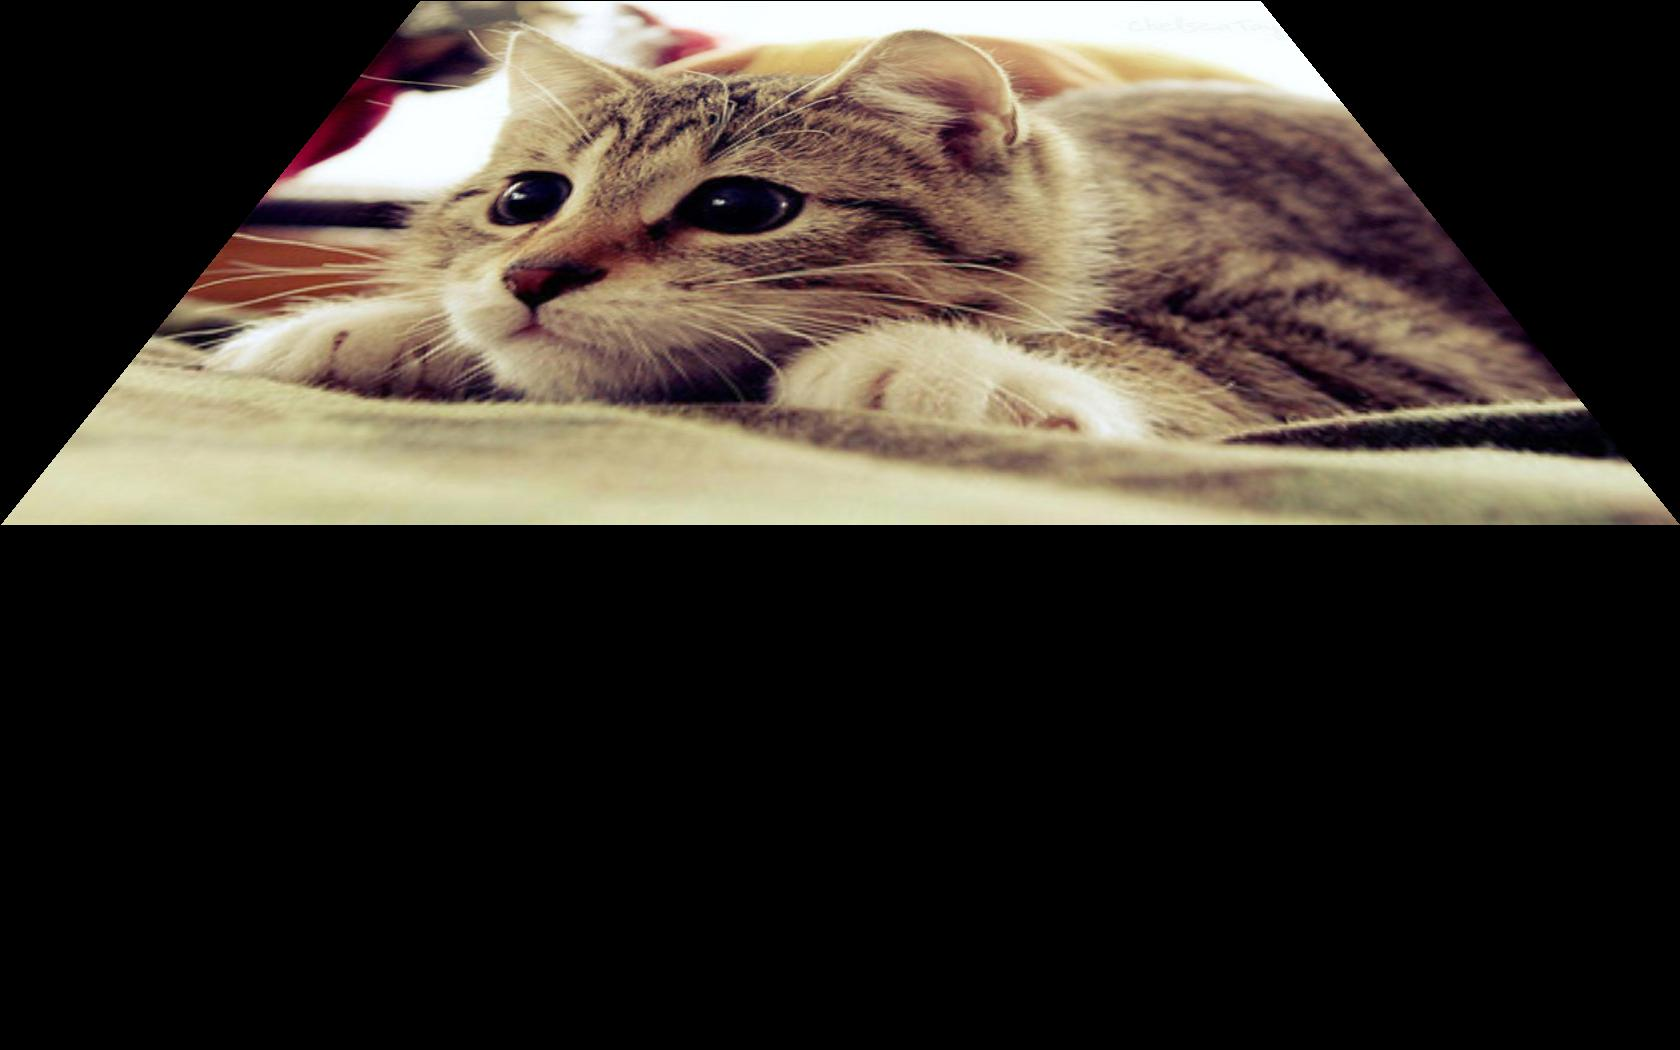
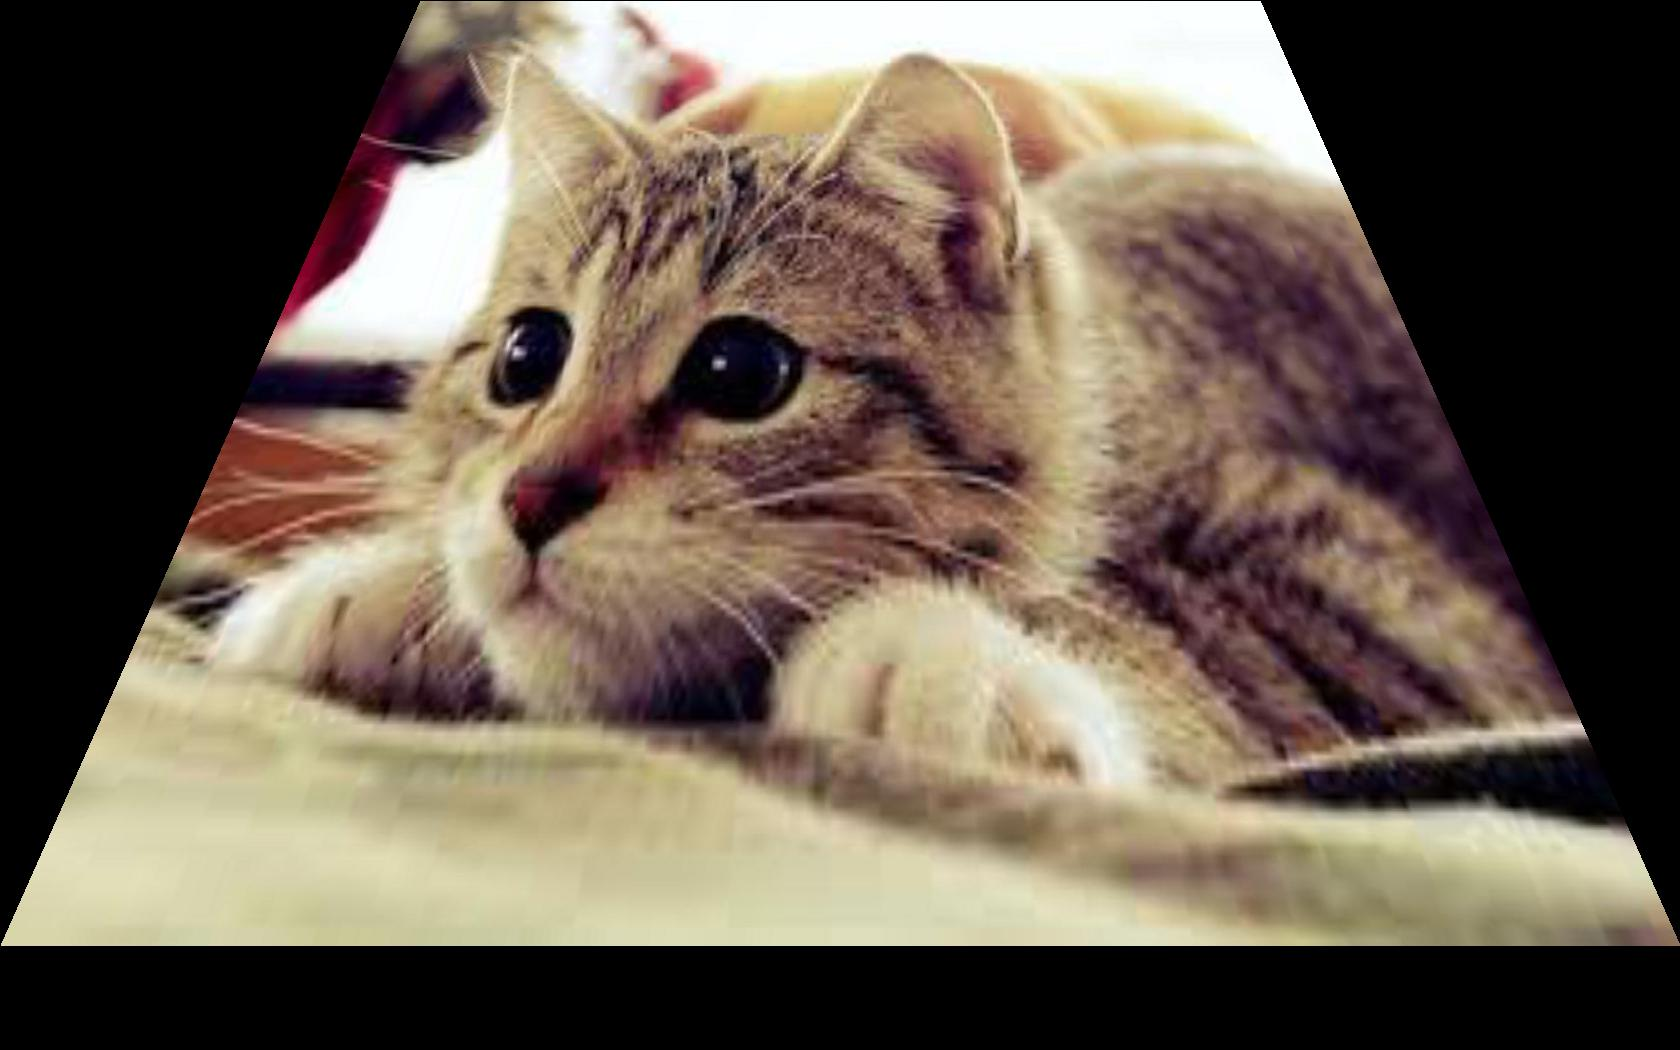
First demo program test

diff --git a/src/time.py b/src/time.py
@@ -1,0 +1,43 @@
+import pygame
+from pygame.locals import*
+from transfunction import transfunction
+from screenres import screenres
+from PIL import Image
+import ImageDraw
+import time
+import sys
+
+x = screenres.width/2
+y = screenres.height/2
+t = time.strftime('%l:%M%p %Z')
+blankimg = Image.open(sys.argv[1])
+draw = ImageDraw.Draw(blankimg)
+draw.text((x,y), t, (255, 255, 255))
+blankimg.save(sys.argv[2])
+
+w = screenres.width
+h = screenres.height
+
+oldimg=Image.open(sys.argv[2])
+newimg=oldimg.resize((w,h), Image.ANTIALIAS)
+newimg.save("/home/pi/ProjectorOS/tools/images/resize.jpg")
+
+img=Image.open("/home/pi/ProjectorOS/tools/images/resize.jpg")
+xc=float(sys.argv[3])
+yc=float(sys.argv[4])
+transimg=transfunction.project(img, xc, yc)
+transimg.save("/home/pi/ProjectorOS/tools/images/new.jpg")
+time.sleep(5)
+
+loadimg=pygame.image.load("/home/pi/ProjectorOS/tools/images/new.jpg")
+
+pygame.init()
+
+white = (255, 255, 255)
+screen = pygame.display.set_mode((w,h))
+screen.fill((white))
+
+screen.blit(loadimg,(0,0))
+pygame.display.update()
+time.sleep(15)
+
